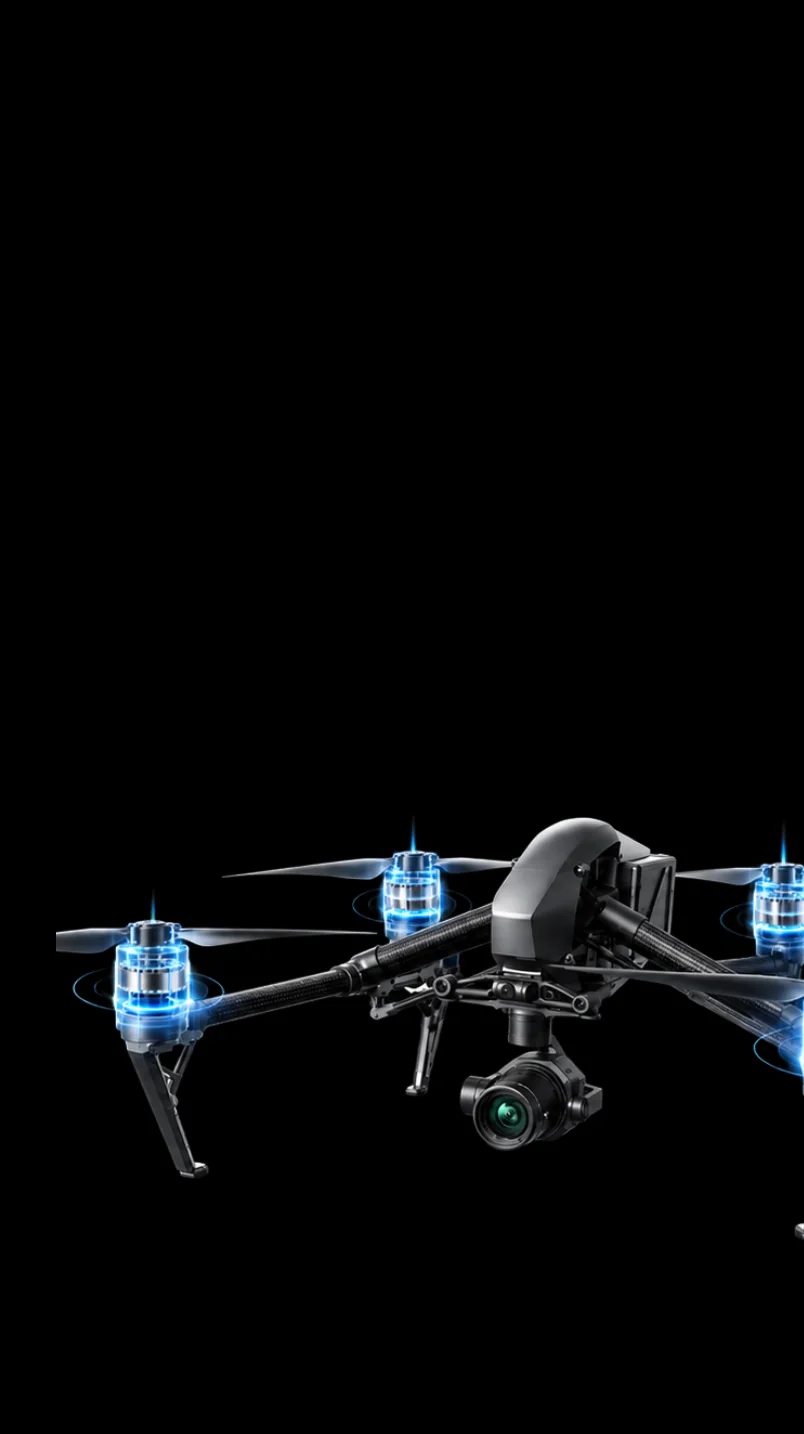
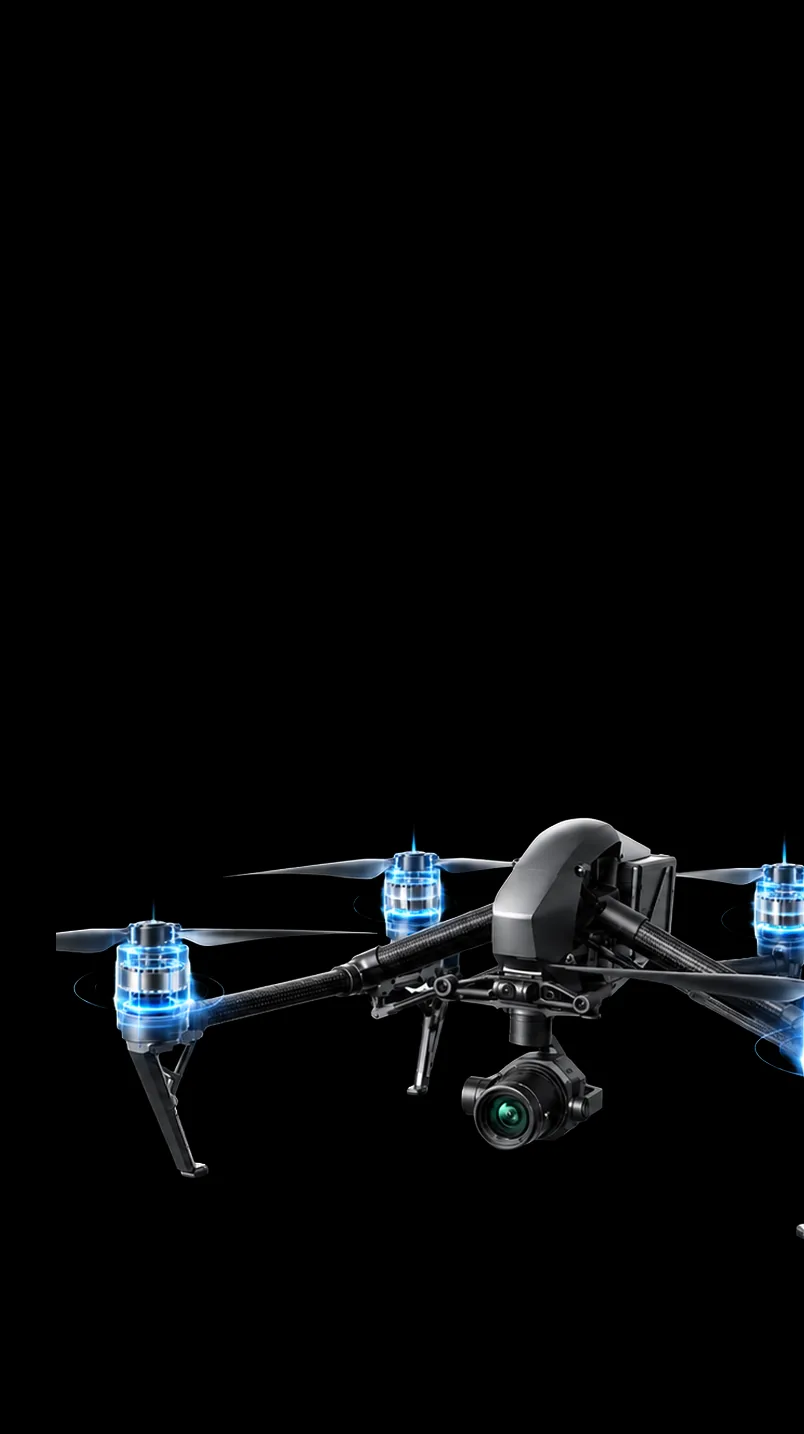
updated drone page

diff --git a/src/data/industry/drone.js b/src/data/industry/drone.js
@@ -1,8 +1,8 @@
 const a = (file) => `/assets/industry/drone/${file}`
-const pulseClip = (transform) => `https://res.cloudinary.com/dccp724cq/video/upload/${transform}/v1790763913/2D_drone_white_bg_2_yxmc1w`
+const pulseClip = (transform) => `https://res.cloudinary.com/dccp724cq/video/upload/${transform}/v1791202072/2D_drone_white_Bg_lines_fixed_uqfuko`
 
 // Drone industry page (Figma "drone page"). It has its own section set, so it is routed separately from
-// the four template industry pages; the banner, outcomes, timeline, testimonials and form are shared.
+// the four template industry pages; the banner, outcomes, timeline and form are shared.
 export default {
   slug: 'drone',
   name: 'Drone',
@@ -127,11 +127,12 @@ export default {
     reveal: 'left',
     titleCase: true,
     items: [
-      { title: '+5-8% Range', text: 'From Motor Swap Alone', icon: '/assets/industry/2w/feat-range.svg' },
-      { title: '2-3 week', text: 'Leadtime', icon: '/assets/industry/2w/feat-leadtime.svg' },
-      { title: '>40°C ambient', text: 'Sustained Operation', icon: '/assets/industry/2w/feat-ambient.svg' },
-      { title: 'PLI Qualifying', text: 'Motor', icon: '/assets/industry/2w/feat-pli.svg' },
-      { title: 'Easily configurable', text: 'For Different Applications', icon: '/assets/industry/2w/feat-config.svg' },
+      { title: '+10% Flight Time', text: 'Higher efficiency per charge', icon: a('feat-flight.svg') },
+      { title: '48V / 72V / 96V', text: 'With CAN communication', icon: a('feat-bolt.svg') },
+      { title: '>40°C ambient', text: 'Sustained Operation', icon: a('feat-thermo.svg') },
+      { title: 'IP67 Sealed', text: 'Dust, heat and monsoon tested', icon: a('feat-motor.svg') },
+      // Figma leaves this tile empty; the phone artboard uses the grid glyph.
+      { title: 'Adaptive Power', text: 'Auto-adjusts to load and terrain', icon: '/assets/industry/2w/feat-config.svg' },
     ],
   },
 }

diff --git a/src/pages/Drone.jsx b/src/pages/Drone.jsx
@@ -10,11 +10,10 @@ import Capabilities from '../sections/drone/Capabilities'
 import DifferentApplication from '../sections/industry/DifferentApplication'
 import Features from '../sections/industry/Features'
 import Process from '../sections/industry/Process'
-import Testimonials from '../sections/Testimonials'
 import SpecForm from '../sections/industry/SpecForm'
 
-// Drone industry page. Sections follow the Figma "drone page" artboard; the last five are shared with
-// the other industry pages.
+// Drone industry page. Sections follow the Figma "drone page (latest)" artboard (node 15420:4563, no
+// testimonials); the last four are shared with the other industry pages.
 export default function Drone() {
   useEffect(() => {
     document.title = drone.title
@@ -34,7 +33,6 @@ export default function Drone() {
       <DifferentApplication image={drone.cta.image} imageClass={drone.cta.imageClass} mobileImage={drone.cta.mobileImage} mobileButton="cta" mobileTop="pt-99" mobileBottom="pb-81" />
       <Features data={drone.features} />
       <Process centered />
-      <Testimonials spacing="gap-60 pt-56 pb-60 xl:gap-93 xl:pt-100 xl:pb-100" desktopArrows arrowsClass="xl:mr-116 xl:self-start" />
       <SpecForm applications={applications} spacing="xl:py-100" />
     </main>
   )
